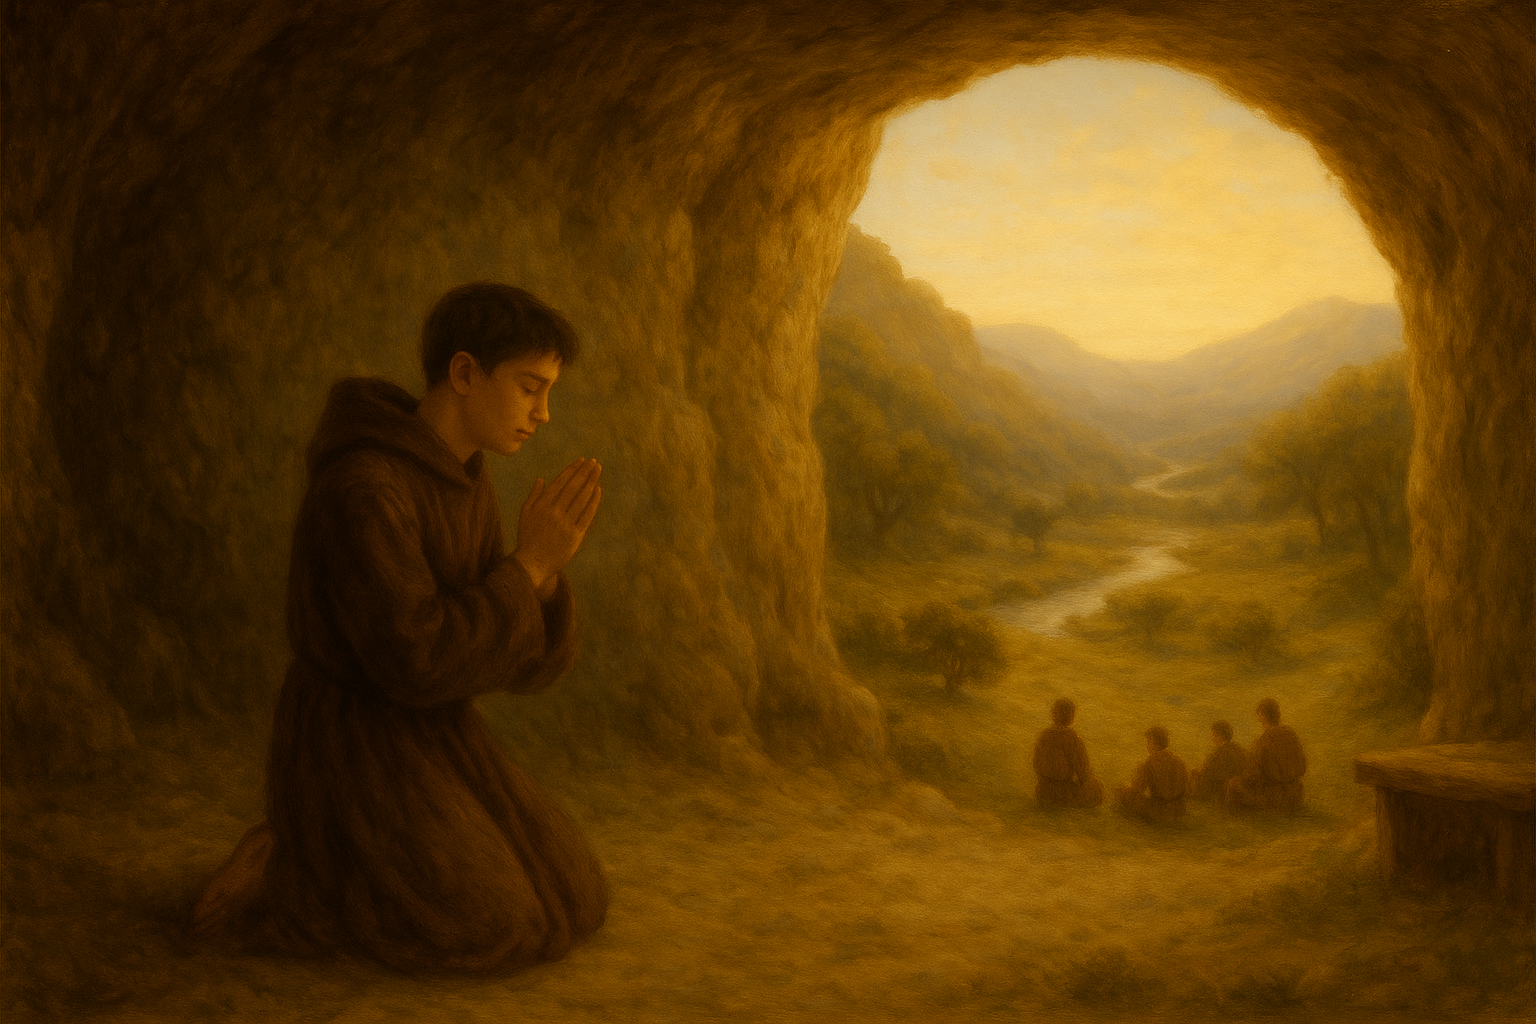
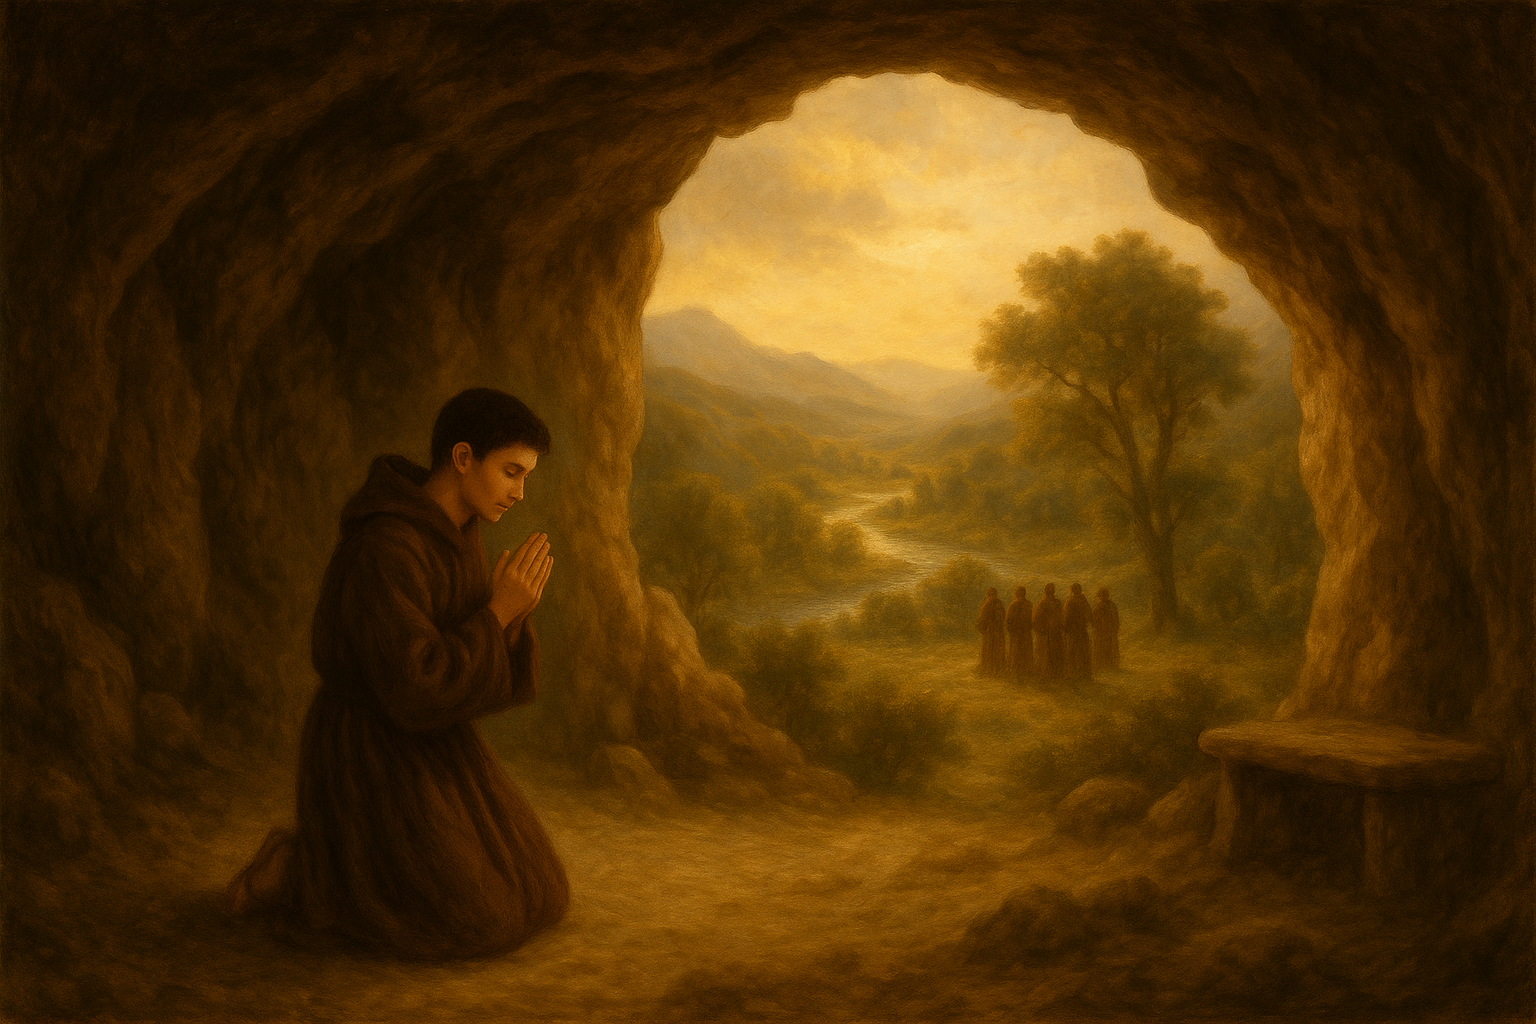
implemented animations for minimi section

diff --git a/src/app/pages/church/components/minimi/minimi.component.ts b/src/app/pages/church/components/minimi/minimi.component.ts
@@ -49,35 +49,30 @@ export class MinimiComponent implements AfterViewInit, OnDestroy {
       imageUrl: '/images/church/minimi/minimi-01.png',
       title: 'church.minimi.slides.0.title',
       description: 'church.minimi.slides.0.description',
-      style: { top: '-300px' },
       duration: 10000,
     },
     {
       imageUrl: '/images/church/minimi/minimi-02.png',
       title: 'church.minimi.slides.1.title',
       description: 'church.minimi.slides.1.description',
-      style: { top: '-50%' },
       duration: 20000,
     },
     {
       imageUrl: '/images/church/minimi/minimi-03.png',
       title: 'church.minimi.slides.2.title',
       description: 'church.minimi.slides.2.description',
-      style: { top: '-50%' },
       duration: 20000,
     },
     {
       imageUrl: '/images/church/minimi/minimi-04.png',
       title: 'church.minimi.slides.3.title',
       description: 'church.minimi.slides.3.description',
-      style: { top: '-30%', left: '0%' },
       duration: 15000,
     },
     {
       imageUrl: '/images/church/minimi/minimi-05.png',
       title: 'church.minimi.slides.4.title',
       description: 'church.minimi.slides.4.description',
-      style: { top: '-50%', left: '0%' },
       duration: 15000,
     },
   ];

diff --git a/src/app/pages/church/components/minimi/minimi.component.scss b/src/app/pages/church/components/minimi/minimi.component.scss
@@ -26,7 +26,7 @@
       left: 0;
       z-index: 0;
       width: 100%;
-      height: auto;
+      height: 100%; // Ensure slide takes full height of carousel
       object-fit: cover;
       pointer-events: none;
       transition: opacity 1s ease-in-out;
@@ -36,10 +36,10 @@
       position: absolute;
       top: 0;
       bottom: 0;
-      height: 100%;
-      overflow: hidden;
       width: 25%;
       right: 5%;
+      height: 100%; // Match the height of .slide
+      overflow: hidden; // Hide overflowing text
       background: rgba(var(--text-mask), 0.7);
       padding: 1.5rem;
       box-shadow: 0 2px 10px var(--box-shadow-heavy);
